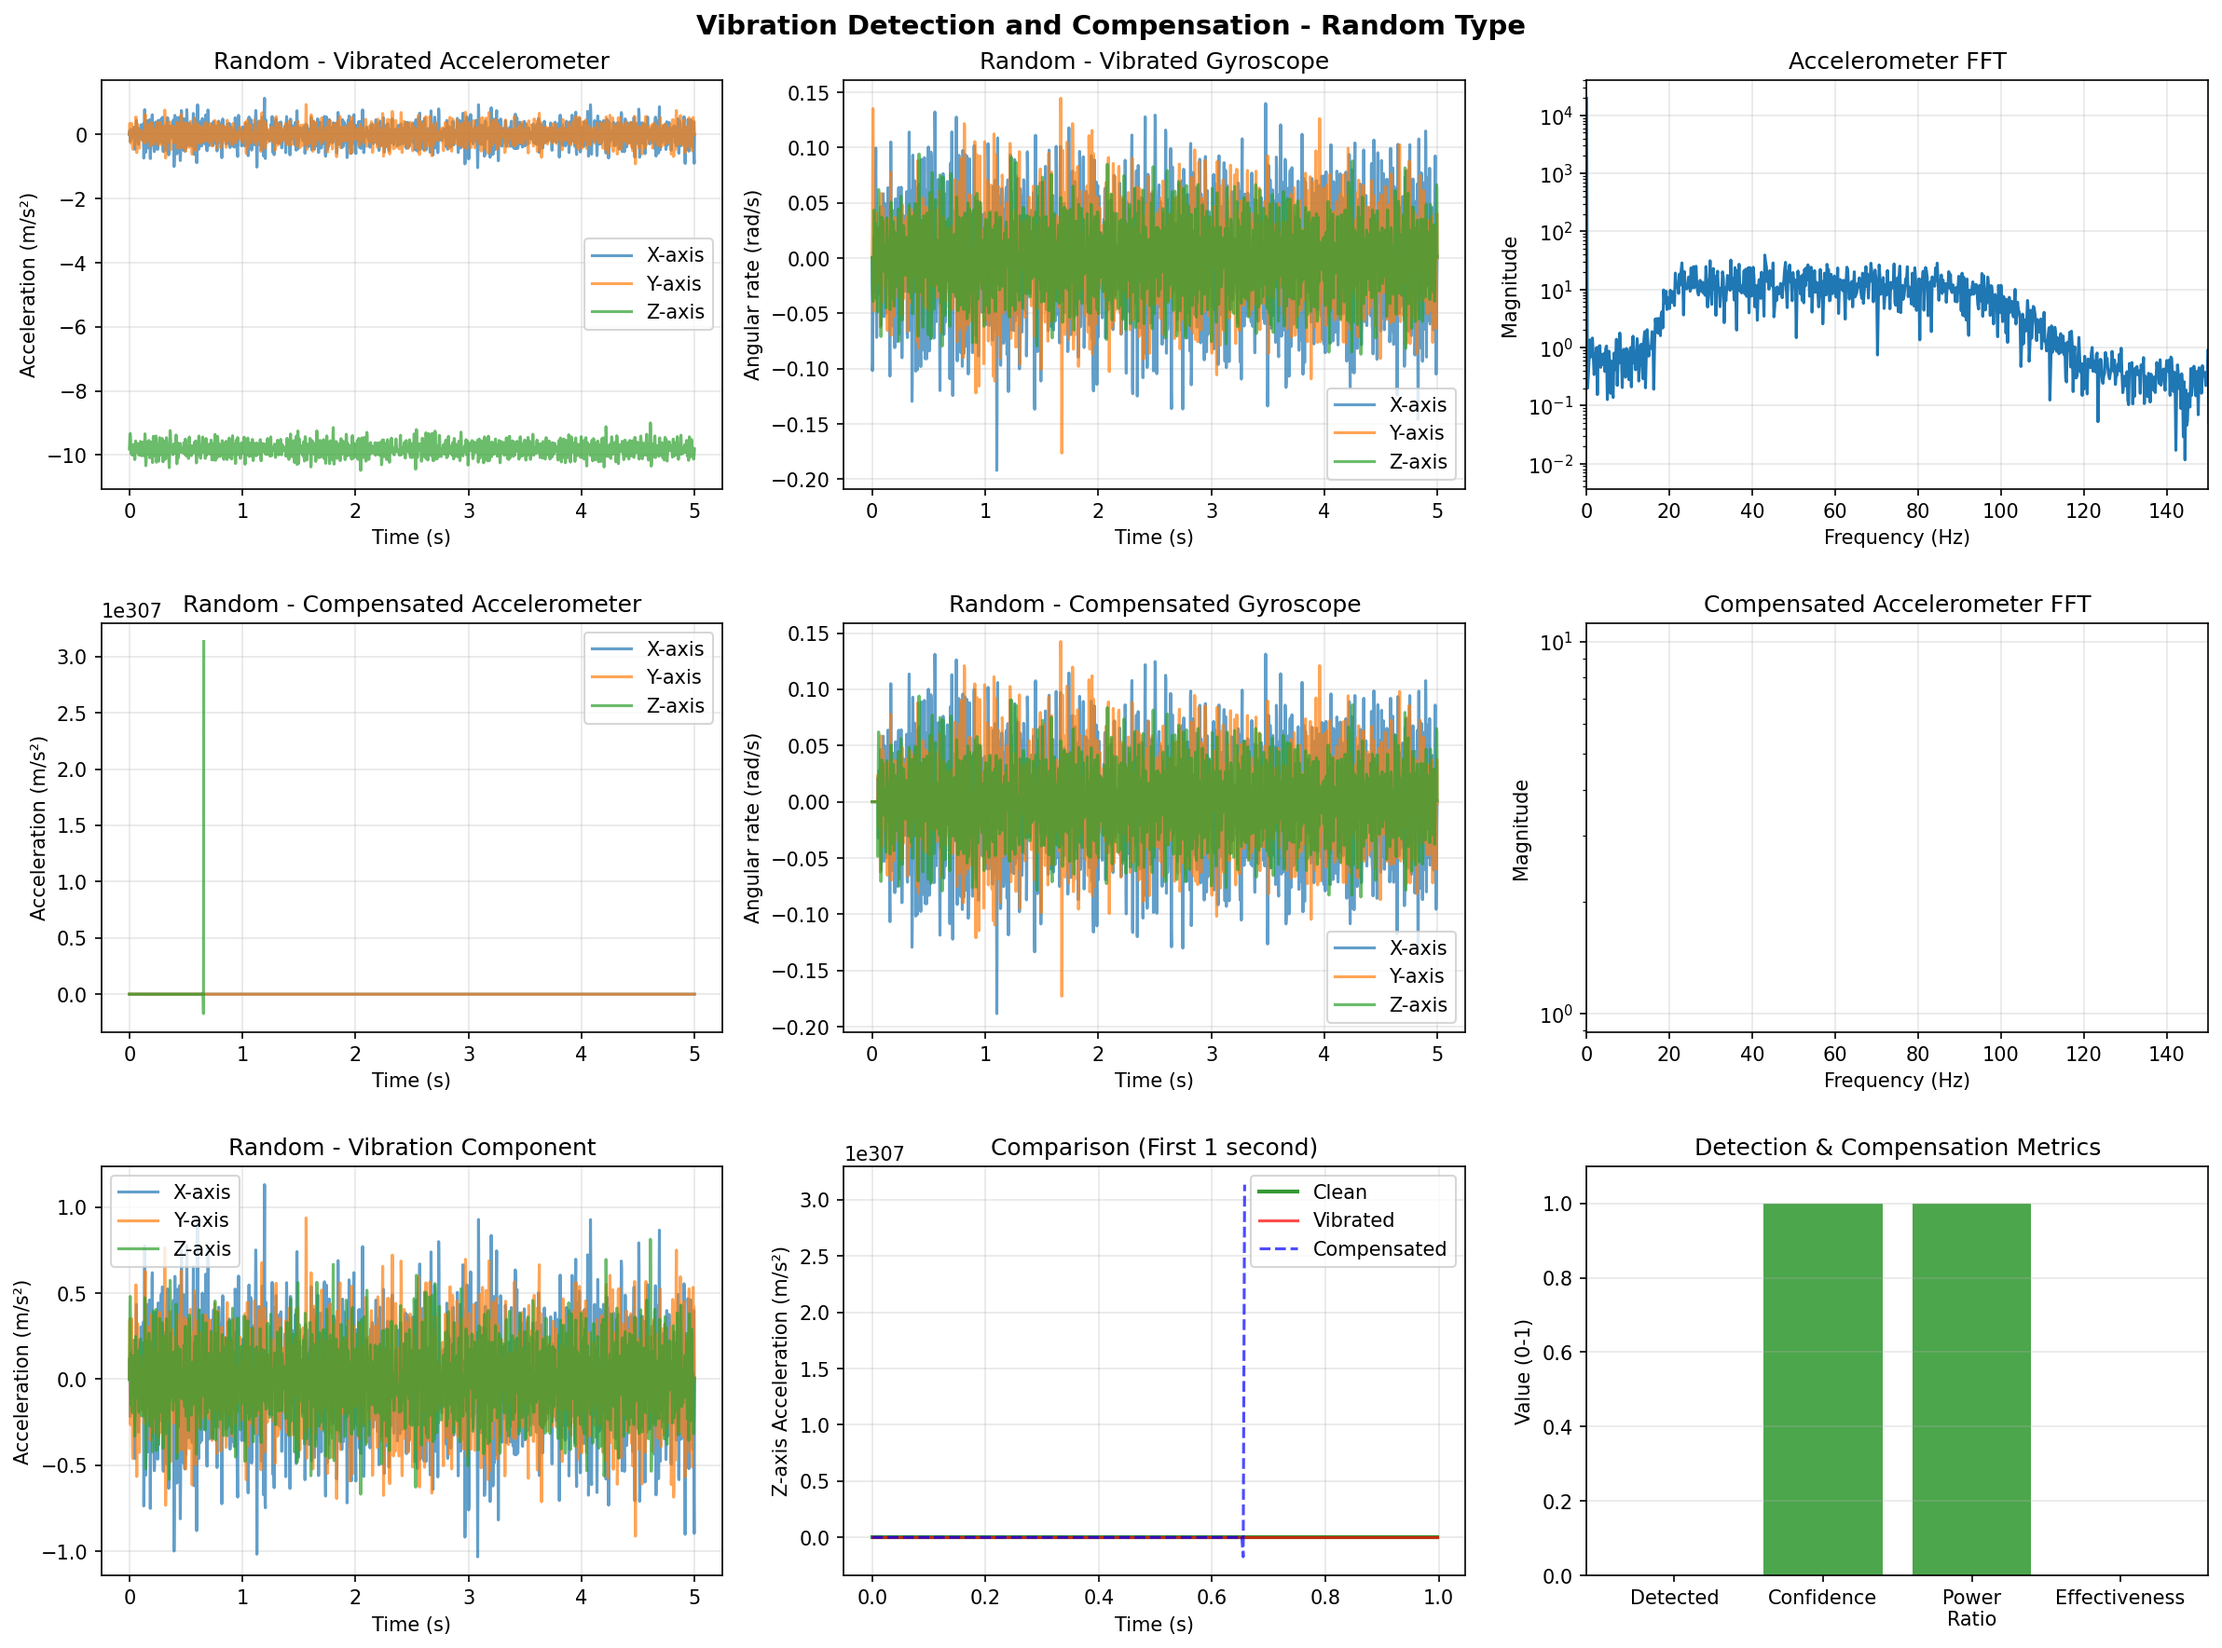
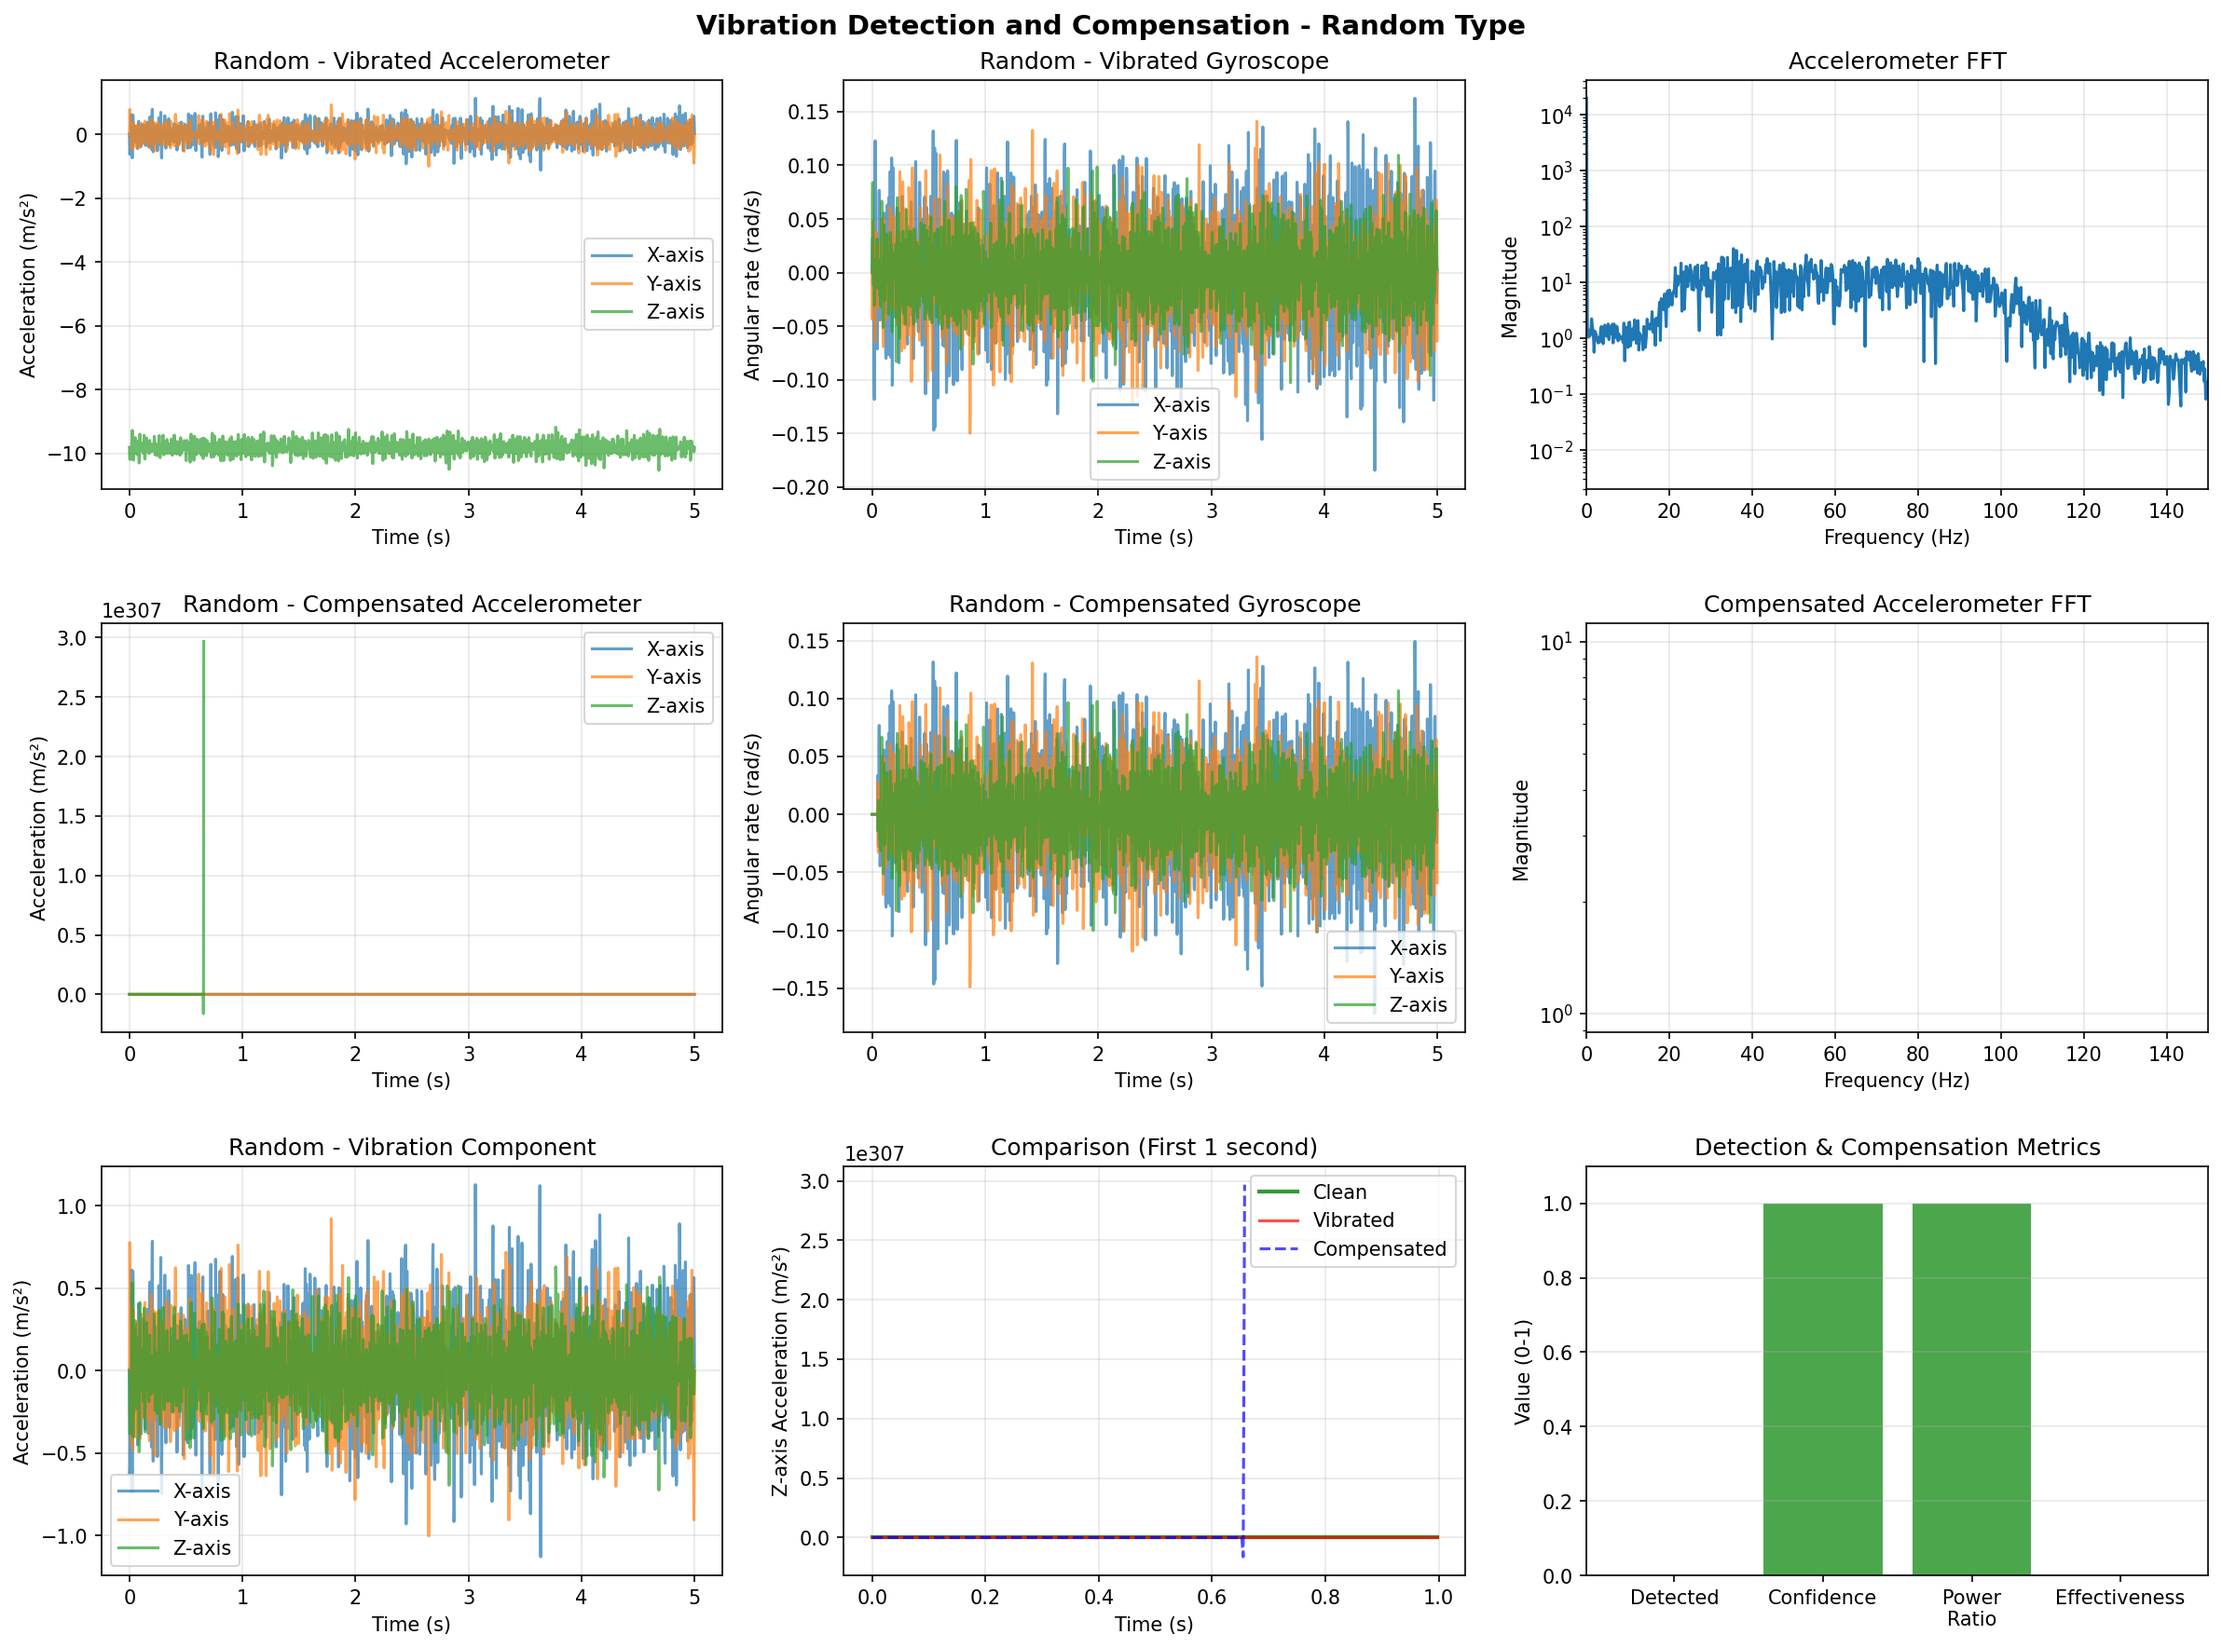
Fix hardcoded sampling frequency assumption in plot generation

diff --git a/run_vibration_detection.py b/run_vibration_detection.py
@@ -196,10 +196,11 @@ def run_vibration_detection_demo(output_dir):
         
         # Plot 8: Comparison - Z-axis detail
         ax8 = plt.subplot(3, 3, 8)
-        time_zoom = time[:400]  # First 1 second
-        plt.plot(time_zoom, accel_clean[:400, 2], 'g-', label='Clean', linewidth=2, alpha=0.8)
-        plt.plot(time_zoom, accel_vibrated[:400, 2], 'r-', label='Vibrated', alpha=0.7)
-        plt.plot(time_zoom, accel_compensated[:400, 2], 'b--', label='Compensated', linewidth=1.5, alpha=0.7)
+        samples_per_second = int(fs)  # Calculate samples for 1 second based on sampling frequency
+        time_zoom = time[:samples_per_second]  # First 1 second
+        plt.plot(time_zoom, accel_clean[:samples_per_second, 2], 'g-', label='Clean', linewidth=2, alpha=0.8)
+        plt.plot(time_zoom, accel_vibrated[:samples_per_second, 2], 'r-', label='Vibrated', alpha=0.7)
+        plt.plot(time_zoom, accel_compensated[:samples_per_second, 2], 'b--', label='Compensated', linewidth=1.5, alpha=0.7)
         plt.xlabel('Time (s)')
         plt.ylabel('Z-axis Acceleration (m/s²)')
         plt.title('Comparison (First 1 second)')
